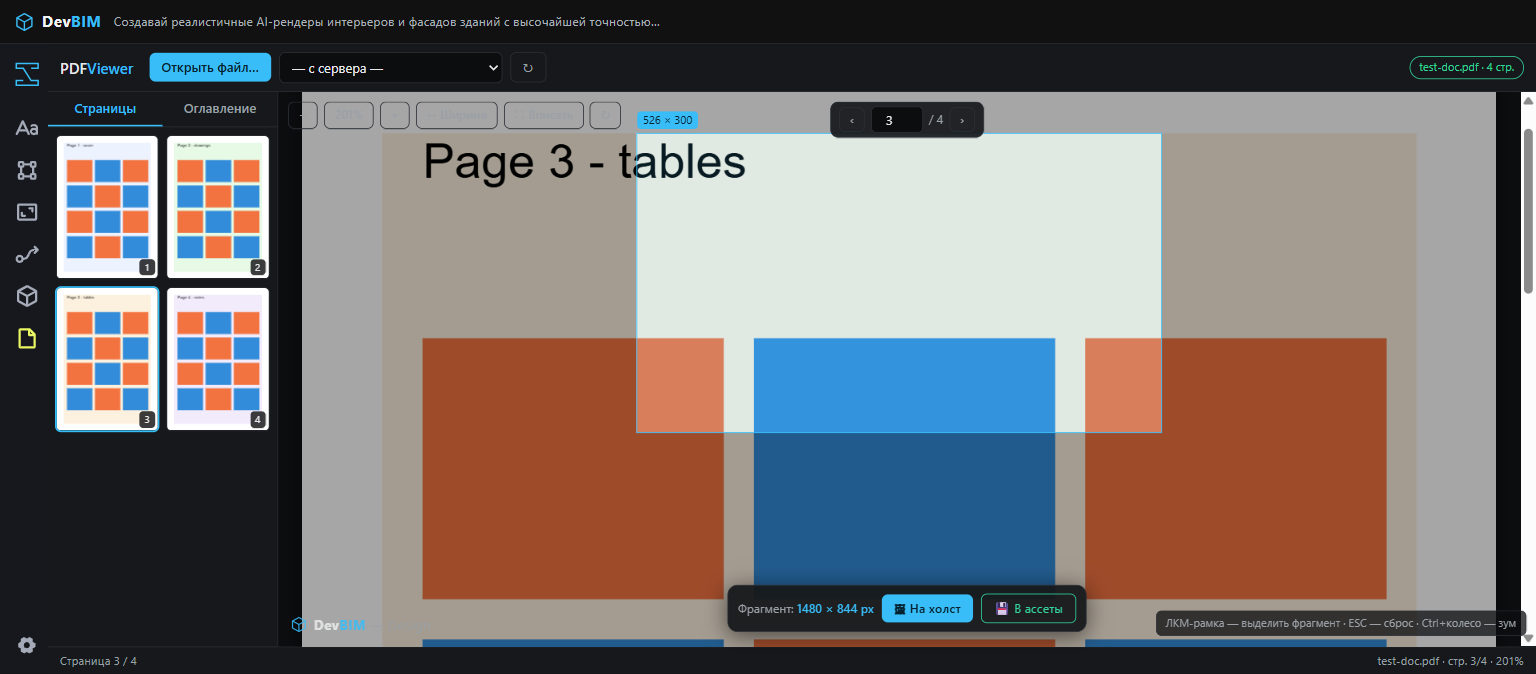
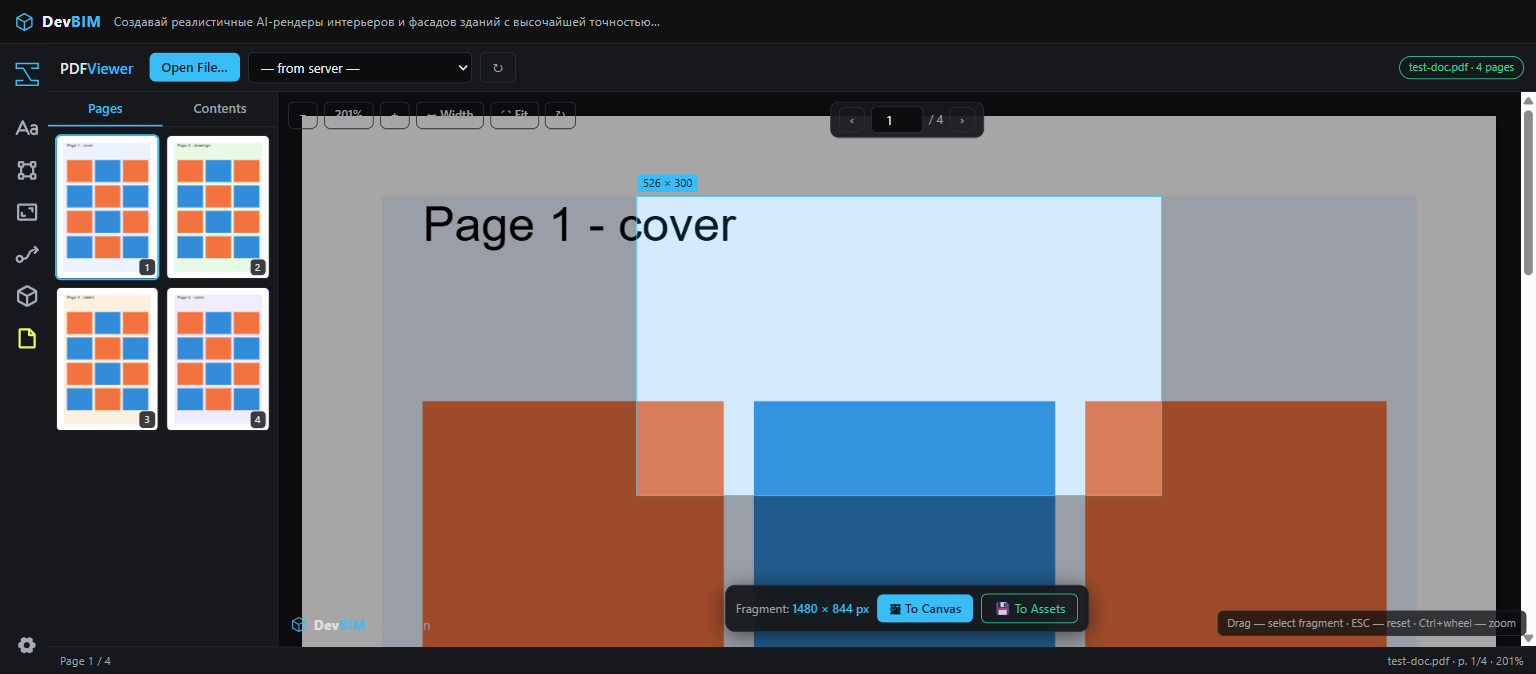
feat(pdf): английский интерфейс вьювера (базовый язык; RU-локализация отдельно)
Все пользовательские строки pdfviewer.html переведены на английский:
Open File…, ⬆ Upload, Pages/Contents, ↔ Width, ⚏ Fit,
🖼 To Canvas, 💾 To Assets, статусы/промпты/подсказки, МБ->MB;
lang=en, title 'PDF Viewer — DevBIM'. Комментарии кода — по-русски.
Скриншот docs/pdfviewer-selection.png обновлён; README/HANDOFF/спека —
новые названия кнопок. Проверено вживую (Playwright): все надписи EN,
To Assets сохраняет фрагмент, статус 'Page 1 fragment saved…'.

diff --git a/pdf/pdfviewer.html b/pdf/pdfviewer.html
@@ -1,9 +1,9 @@
 <!DOCTYPE html>
-<html lang="ru">
+<html lang="en">
 <head>
 <meta charset="utf-8">
 <meta name="viewport" content="width=device-width, initial-scale=1">
-<title>PDF-вьювер — DevBIM</title>
+<title>PDF Viewer — DevBIM</title>
 <style>
   :root{
     --bg:#0c0d0f; --panel:#16181b; --panel2:#1d2024; --border:#2b2f35;
@@ -167,22 +167,22 @@
 <body>
 <header>
   <h1>PDF<span class="bim">Viewer</span></h1>
-  <button id="open-file">Открыть файл…</button>
+  <button id="open-file">Open File…</button>
   <input type="file" id="file-input" accept=".pdf,application/pdf">
-  <button id="upload-server" class="ghost" title="Сохранить текущий документ на сервер" style="display:none">⬆ На сервер</button>
-  <select id="server-list" title="Документы на сервере"><option value="">— с сервера —</option></select>
-  <button id="refresh-list" class="ghost" title="Обновить список документов на сервере">↻</button>
+  <button id="upload-server" class="ghost" title="Save the current document to the server" style="display:none">⬆ Upload</button>
+  <select id="server-list" title="Documents on the server"><option value="">— from server —</option></select>
+  <button id="refresh-list" class="ghost" title="Refresh the server document list">↻</button>
   <span class="spacer"></span>
-  <span class="chip" id="stat-doc">документ не загружен</span>
+  <span class="chip" id="stat-doc">no document loaded</span>
 </header>
 
 <main>
   <section class="side">
     <div class="side-tabs">
-      <button id="tab-thumbs" class="active">Страницы</button>
-      <button id="tab-outline">Оглавление</button>
+      <button id="tab-thumbs" class="active">Pages</button>
+      <button id="tab-outline">Contents</button>
     </div>
-    <div id="thumbs"><div class="placeholder" style="color:var(--muted);font-size:12px;padding:8px 2px">Загрузите документ…</div></div>
+    <div id="thumbs"><div class="placeholder" style="color:var(--muted);font-size:12px;padding:8px 2px">Load a document…</div></div>
     <div id="outline"></div>
   </section>
 
@@ -190,8 +190,8 @@
     <div id="loadbar"><i></i></div>
     <div class="empty" id="empty">
       <div class="big">📄</div>
-      <div>Откройте PDF-файл с диска или выберите документ с сервера.<br>
-      Выделите фрагмент рамкой — и отправьте его на холст или в ассеты.</div>
+      <div>Open a PDF file from disk or pick a document from the server.<br>
+      Drag a frame to select a fragment, then send it to the canvas or assets.</div>
     </div>
     <div id="scroller" style="display:none">
       <div id="page-wrap">
@@ -200,25 +200,25 @@
       </div>
     </div>
     <div id="toolbar" style="display:none">
-      <button id="btn-zoom-out" class="ghost" title="Уменьшить">−</button>
-      <button id="btn-zoom-label" class="ghost" title="Масштаб 100%">100%</button>
-      <button id="btn-zoom-in" class="ghost" title="Увеличить">+</button>
-      <button id="btn-fit-width" class="ghost" title="Вписать по ширине">↔ Ширина</button>
-      <button id="btn-fit-page" class="ghost" title="Вписать страницу целиком">⛶ Вписать</button>
-      <button id="btn-rotate" class="ghost" title="Повернуть на 90°">↻</button>
+      <button id="btn-zoom-out" class="ghost" title="Zoom out">−</button>
+      <button id="btn-zoom-label" class="ghost" title="Zoom 100%">100%</button>
+      <button id="btn-zoom-in" class="ghost" title="Zoom in">+</button>
+      <button id="btn-fit-width" class="ghost" title="Fit width">↔ Width</button>
+      <button id="btn-fit-page" class="ghost" title="Fit the whole page">⛶ Fit</button>
+      <button id="btn-rotate" class="ghost" title="Rotate 90°">↻</button>
     </div>
     <div id="pagenav" style="display:none">
-      <button id="btn-prev" class="ghost" title="Предыдущая страница">‹</button>
+      <button id="btn-prev" class="ghost" title="Previous page">‹</button>
       <input id="page-input" type="number" min="1" value="1">
       <span class="total" id="page-total">/ 1</span>
-      <button id="btn-next" class="ghost" title="Следующая страница">›</button>
+      <button id="btn-next" class="ghost" title="Next page">›</button>
     </div>
     <div id="actionbar">
-      <span class="info">Фрагмент: <span class="out" id="sel-out">—</span></span>
-      <button id="btn-to-canvas" title="Положить фрагмент на холст подложкой (со слоем маски перерисовки)">🖼 На холст</button>
-      <button id="btn-save-assets" class="ghost" style="color:var(--ok);border-color:var(--ok)" title="Сохранить фрагмент в галерею (ассеты)">💾 В ассеты</button>
+      <span class="info">Fragment: <span class="out" id="sel-out">—</span></span>
+      <button id="btn-to-canvas" title="Place the fragment on the canvas as a base layer (with an inpaint mask layer)">🖼 To Canvas</button>
+      <button id="btn-save-assets" class="ghost" style="color:var(--ok);border-color:var(--ok)" title="Save the fragment to the gallery (Assets tab)">💾 To Assets</button>
     </div>
-    <div id="navhelp">ЛКМ-рамка — выделить фрагмент · ESC — сброс · Ctrl+колесо — зум</div>
+    <div id="navhelp">Drag — select fragment · ESC — reset · Ctrl+wheel — zoom</div>
     <div class="devbim-logo">
       <svg width="17" height="17" viewBox="0 0 24 24" fill="none" aria-hidden="true">
         <path d="M12 2 21 7v10l-9 5-9-5V7l9-5z" stroke="#38BDF8" stroke-width="1.7" stroke-linejoin="round"/>
@@ -230,7 +230,7 @@
 </main>
 
 <footer>
-  <span id="status">Готов</span>
+  <span id="status">Ready</span>
   <span class="spacer"></span>
   <span id="info"></span>
 </footer>
@@ -263,9 +263,9 @@ function escapeHtml(s) {
   return String(s).replace(/[&<>"]/g, (c) => ({ "&": "&amp;", "<": "&lt;", ">": "&gt;", '"': "&quot;" }[c]));
 }
 function fmtSize(b) {
-  if (b > 1024 * 1024) return (b / 1024 / 1024).toFixed(1) + " МБ";
-  if (b > 1024) return (b / 1024).toFixed(0) + " КБ";
-  return b + " Б";
+  if (b > 1024 * 1024) return (b / 1024 / 1024).toFixed(1) + " MB";
+  if (b > 1024) return (b / 1024).toFixed(0) + " KB";
+  return b + " B";
 }
 const sleep = (ms) => new Promise((r) => setTimeout(r, ms));
 
@@ -289,15 +289,15 @@ const io = "IntersectionObserver" in window ? new IntersectionObserver(onThumbVi
 // ============================== загрузка документа ==============================
 async function openPdf(data, name, { server = false, file = null } = {}) {
   closeDoc(false);
-  setStatus("Открытие " + name + "…");
+  setStatus("Opening " + name + "…");
   setProgress(0.15);
   const task = pdfjsLib.getDocument({ data, isEvalSupported: false });
   let pwTries = 0;
   task.onPassword = (updatePw, reason) => {
     const wrong = reason === pdfjsLib.PasswordResponses.INCORRECT_PASSWORD;
-    if (wrong && ++pwTries >= 3) throw new Error("Неверный пароль документа");
-    const pw = prompt(wrong ? "Неверный пароль. Пароль PDF-документа:" : "Документ защищён паролем. Введите пароль:");
-    if (pw === null) throw new Error("Документ защищён паролем");
+    if (wrong && ++pwTries >= 3) throw new Error("Wrong document password");
+    const pw = prompt(wrong ? "Wrong password. PDF document password:" : "The document is password-protected. Enter the password:");
+    if (pw === null) throw new Error("Document is password-protected");
     updatePw(pw);
   };
   try {
@@ -305,7 +305,7 @@ async function openPdf(data, name, { server = false, file = null } = {}) {
   } catch (e) {
     console.error(e);
     setProgress(null);
-    setStatus("Не удалось открыть PDF: " + (e?.message || e), true);
+    setStatus("Failed to open PDF: " + (e?.message || e), true);
     return false;
   }
   docName = name;
@@ -322,7 +322,7 @@ async function openPdf(data, name, { server = false, file = null } = {}) {
   $("pagenav").style.display = "flex";
   $("upload-server").style.display = server || !file ? "none" : "";
   const chip = $("stat-doc");
-  chip.textContent = `${name} · ${pdf.numPages} стр.`;
+  chip.textContent = `${name} · ${pdf.numPages} pages`;
   chip.className = "chip ok";
   $("page-total").textContent = "/ " + pdf.numPages;
   setProgress(0.55);
@@ -331,7 +331,7 @@ async function openPdf(data, name, { server = false, file = null } = {}) {
   if (server) { try { localStorage.setItem(LAST_DOC_KEY, name); } catch {} }
   await renderCurrentPage();
   setProgress(null);
-  setStatus(`Документ открыт: ${name}, страниц: ${pdf.numPages}`);
+  setStatus(`Document opened: ${name}, pages: ${pdf.numPages}`);
   return true;
 }
 
@@ -343,7 +343,7 @@ function closeDoc(keepList) {
   selection = null; thumbCache.clear(); outlineItems = [];
   io?.disconnect?.();
   if (!keepList) {
-    $("thumbs").innerHTML = '<div style="color:var(--muted);font-size:12px;padding:8px 2px">Загрузите документ…</div>';
+    $("thumbs").innerHTML = '<div style="color:var(--muted);font-size:12px;padding:8px 2px">Load a document…</div>';
     $("outline").innerHTML = "";
     $("tab-outline").style.display = "";
     switchSide("thumbs");
@@ -351,7 +351,7 @@ function closeDoc(keepList) {
 }
 
 async function loadServerDoc(name, { page = 1 } = {}) {
-  setStatus("Загрузка " + name + " с сервера…");
+  setStatus("Loading " + name + " from server…");
   const r = await fetch("/api/v1/pdf/file/" + encodeURIComponent(name));
   if (!r.ok) throw new Error("HTTP " + r.status);
   const buf = await r.arrayBuffer();
@@ -391,7 +391,7 @@ async function renderCurrentPage({ keepScroll = false } = {}) {
   const ctx = canvas.getContext("2d");
   ctx.fillStyle = "#ffffff";
   ctx.fillRect(0, 0, canvas.width, canvas.height);
-  setStatus(`Страница ${pageNum} / ${pdf.numPages}…`);
+  setStatus(`Page ${pageNum} / ${pdf.numPages}…`);
   renderTask = page.render({
     canvasContext: ctx,
     viewport: vp,
@@ -412,8 +412,8 @@ async function renderCurrentPage({ keepScroll = false } = {}) {
   $("btn-zoom-label").textContent = Math.round(scale * 100) + "%";
   $("page-input").value = pageNum;
   markCurrentThumb();
-  $("info").textContent = `${docName ?? ""} · стр. ${pageNum}/${pdf.numPages} · ${Math.round(scale * 100)}%`;
-  setStatus(`Страница ${pageNum} / ${pdf.numPages}`);
+  $("info").textContent = `${docName ?? ""} · p. ${pageNum}/${pdf.numPages} · ${Math.round(scale * 100)}%`;
+  setStatus(`Page ${pageNum} / ${pdf.numPages}`);
   try { localStorage.setItem(LAST_PAGE_KEY, String(pageNum)); } catch {}
 }
 
@@ -421,7 +421,7 @@ let zoomTimer = null;
 function scheduleRender(opts = {}) {
   clearTimeout(zoomTimer);
   zoomTimer = setTimeout(() => renderCurrentPage(opts).catch((e) => {
-    console.error(e); setStatus("Ошибка рендера: " + (e?.message || e), true);
+    console.error(e); setStatus("Render error: " + (e?.message || e), true);
   }), 120);
 }
 
@@ -434,7 +434,7 @@ async function gotoPage(n) {
   markCurrentThumb();
   const t = thumbFor(n); // прокрутить миниатюру к виду
   t?.scrollIntoView({ block: "nearest" });
-  await renderCurrentPage().catch((e) => { setStatus("Ошибка рендера: " + (e?.message || e), true); });
+  await renderCurrentPage().catch((e) => { setStatus("Render error: " + (e?.message || e), true); });
 }
 
 // зум: factor вокруг точки (clientX, clientY) либо центра вьюпорта
@@ -480,7 +480,7 @@ function buildThumbs() {
     t.className = "thumb" + (n === pageNum ? " cur" : "");
     t.dataset.page = n;
     t.innerHTML = `<div class="ph">…</div><span class="num">${n}</span>`;
-    t.title = "Страница " + n;
+    t.title = "Page " + n;
     t.addEventListener("click", () => gotoPage(n));
     grid.appendChild(t);
     io?.observe(t);
@@ -725,25 +725,25 @@ async function uploadImage(blob, name, category = "general") {
 }
 
 async function sendFragment({ toCanvas = false } = {}) {
-  if (!selection || !pdf) { setStatus("Сначала выделите фрагмент рамкой", true); return; }
+  if (!selection || !pdf) { setStatus("Select a fragment first (drag a frame)", true); return; }
   const btn = toCanvas ? $("btn-to-canvas") : $("btn-save-assets");
   btn.disabled = true;
   try {
-    setStatus("Готовка фрагмента…");
+    setStatus("Preparing fragment…");
     const { blob, name } = await cropSelection();
     if (toCanvas) {
       const dto = await uploadImage(blob, name, "general");
       const api = window.parent && window.parent.__devbimIfc;
-      if (!api?.toCanvas) throw new Error("мост к холсту недоступен (перезагрузите страницу)");
+      if (!api?.toCanvas) throw new Error("canvas bridge unavailable (reload the page)");
       await api.toCanvas(dto, false);
-      setStatus(`Фрагмент стр. ${pageNum} передан на холст — кистью выделите «Маску перерисовки»`);
+      setStatus(`Page ${pageNum} fragment placed on canvas — brush an inpaint mask, then Generate`);
     } else {
       const dto = await uploadImage(blob, name, "user");
-      setStatus(`Фрагмент стр. ${pageNum} сохранён во вкладке «Assets» галереи (${name})`);
+      setStatus(`Page ${pageNum} fragment saved to the gallery "Assets" tab (${name})`);
     }
   } catch (e) {
     console.error(e);
-    setStatus("Ошибка: " + (e?.message || e), true);
+    setStatus("Error: " + (e?.message || e), true);
   } finally {
     btn.disabled = false;
   }
@@ -757,10 +757,10 @@ async function refreshServerList() {
     if (!r.ok) throw new Error("HTTP " + r.status);
     const d = await r.json();
     const docs = d.docs || [];
-    sel.innerHTML = '<option value="">— с сервера —</option>' +
+    sel.innerHTML = '<option value="">— from server —</option>' +
       docs.map((n) => `<option value="${escapeHtml(n.name)}">${escapeHtml(n.name)}${n.size ? " · " + fmtSize(n.size) : ""}</option>`).join("");
   } catch {
-    sel.innerHTML = '<option value="">— сервер: нет документов —</option>';
+    sel.innerHTML = '<option value="">— server: no documents —</option>';
   }
 }
 
@@ -769,7 +769,7 @@ async function uploadToServer() {
   const btn = $("upload-server");
   btn.disabled = true;
   try {
-    setStatus("Сохранение на сервер…");
+    setStatus("Uploading to server…");
     const fd = new FormData();
     fd.append("file", docFile, docName);
     const r = await fetch("/api/v1/pdf/upload", { method: "POST", body: fd });
@@ -779,9 +779,9 @@ async function uploadToServer() {
     $("upload-server").style.display = "none";
     try { localStorage.setItem(LAST_DOC_KEY, d.name || docName); } catch {}
     await refreshServerList();
-    setStatus("Сохранено на сервере: " + (d.name || docName));
+    setStatus("Saved to server: " + (d.name || docName));
   } catch (e) {
-    setStatus("Не удалось сохранить на сервер: " + (e?.message || e), true);
+    setStatus("Upload to server failed: " + (e?.message || e), true);
   } finally {
     btn.disabled = false;
   }
@@ -792,7 +792,7 @@ $("open-file").addEventListener("click", () => $("file-input").click());
 $("file-input").addEventListener("change", async (e) => {
   const f = e.target.files?.[0];
   if (!f) return;
-  if (!/\.pdf$/i.test(f.name)) { setStatus("Нужен файл .pdf", true); e.target.value = ""; return; }
+  if (!/\.pdf$/i.test(f.name)) { setStatus("A .pdf file is required", true); e.target.value = ""; return; }
   const buf = await f.arrayBuffer();
   await openPdf(new Uint8Array(buf), f.name, { file: f });
   e.target.value = "";
@@ -805,7 +805,7 @@ $("server-list").addEventListener("change", async (e) => {
   try {
     await loadServerDoc(name);
   } catch (err) {
-    setStatus("Не удалось загрузить: " + err.message, true);
+    setStatus("Failed to load: " + err.message, true);
   } finally {
     e.target.value = "";
   }
@@ -840,7 +840,7 @@ $("scroller").addEventListener("wheel", (e) => {
   if (!e.ctrlKey || !pdf) return;
   e.preventDefault();
   zoomAt(e.deltaY < 0 ? 1.15 : 1 / 1.15, e.clientX, e.clientY)
-    .catch((err) => setStatus("Ошибка зума: " + err.message, true));
+    .catch((err) => setStatus("Zoom error: " + err.message, true));
 }, { passive: false });
 
 window.addEventListener("keydown", (e) => {

diff --git a/docs/superpowers/specs/2026-09-05-pdf-viewer-design.md b/docs/superpowers/specs/2026-09-05-pdf-viewer-design.md
@@ -57,15 +57,16 @@
 
 ## UI вьювера
 
-- **Header**: логотип «PDF**Viewer**», «Открыть файл…» (диск),
-  «⬆ На сервер» (загрузить текущий документ на сервер; скрыт, если документ
-  уже с сервера), select «— с сервера —» + ↻, chip-статус (имя · N стр.).
-- **Сайдбар слева** с двумя секциями: «Страницы» — сетка миниатюр
+- **Header**: логотип «PDF**Viewer**», «Open File…» (диск),
+  «⬆ Upload» (загрузить текущий документ на сервер; скрыт, если документ
+  уже с сервера), select «— from server —» + ↻, chip-статус (имя · N pages).
+  Интерфейс на английском (базовый язык; RU-локализация отдельно).
+- **Сайдбар слева** с двумя секциями: «Pages» — сетка миниатюр
   (ленивый рендер через IntersectionObserver, ширина ~110px, клик —
-  переход, текущая подсвечена) и «Оглавление» — дерево `getOutline()`
+  переход, текущая подсвечена) и «Contents» — дерево `getOutline()`
   (скрыто, если в PDF нет оглавления).
 - **Вьюпорт**: страница по центру на тёмном фоне; плавающий тулбар
-  слева сверху: зум −/+, «Вписать», «100%», поворот ↻; панель навигации:
+  слева сверху: зум −/+, «⛶ Fit», «100%», поворот ↻; панель навигации:
   «‹ [N] / M ›» (input + стрелки). Скролл — колесо/скроллбар,
   Ctrl+колесо — зум.
 - **Рамка**: drag ЛКМ по странице — прямоугольник (акцент, полупрозрачная
@@ -73,7 +74,7 @@
   Минимальный размер 8×8 CSS-px, иначе клик-сброс. ESC — сброс. Зум/
   поворот/смена страницы сбрасывают рамку.
 - **Action bar** (плавающая, внизу по центру, видна при наличии рамки):
-  размер фрагмента на выходе, «🖼 На холст», «💾 В ассеты». Кнопки
+  размер фрагмента на выходе, «🖼 To Canvas», «💾 To Assets». Кнопки
   блокируются на время операции, статус — в футере/тосте.
 - **Footer**: статус (страница, зум, имя файла, ошибки), как у IFC.
 - CSS-хук `body.embed` (?embed=1) сохранён на будущее.
@@ -87,9 +88,9 @@
 3. Кроп `(x·S, y·S, w·S, h·S)` → `canvas.toBlob('image/png')`.
 4. `POST /api/v1/images/upload?image_category=<general|user>&is_intermediate=false`
    (multipart, имя `pdf-p<N>.png`) → ImageDTO.
-5. «На холст»: `window.parent.__devbimIfc.toCanvas(dto, false)` (категория
-   `general`). «В ассеты»: категория `user`, тост «Сохранено во вкладке
-   „Assets“ галереи».
+5. «To Canvas»: `window.parent.__devbimIfc.toCanvas(dto, false)` (категория
+   `general`). «To Assets»: категория `user`, статус «saved to the gallery
+   "Assets" tab».
 
 ## Патчи бандлов (анкеры — строки ПОСЛЕ setup_ifcviewer.py)
 

diff --git a/HANDOFF.md b/HANDOFF.md
@@ -450,15 +450,17 @@ invokeai==6.2.0` их нужно запускать повторно в поря
     PageDown, зум −/+/Ctrl+колесо/100%, «Ширина»/«Вписать», поворот)
     → рамка фрагмента (ЛКМ-drag по странице, затемнение вне рамки
     box-shadow-трюком, ESC/клик — сброс, новая заменяет прежнюю) →
-    «🖼 На холст» / «💾 В ассеты». Рендер PDF.js 5.4.149, ассеты
+    «🖼 To Canvas» / «💾 To Assets» (интерфейс на АНГЛИЙСКОМ — базовый
+    язык, русская локализация отдельно; изначально был русский,
+    переведён 05.09 по решению пользователя). Рендер PDF.js 5.4.149, ассеты
     `pdf/assets/` → `dist/pdf/` (mjs отдаётся как application/javascript
     на этой машине — воркер работает; проверять после переноса).
     Кроп: offscreen-рендер страницы под целевую длинную сторону фрагмента
     2048 px (лимит полной страницы 16 Мп, абсолютный cap масштаба ×12,
     белый фон) → PNG → `POST /api/v1/images/upload`.
-    «На холст» = мост `__devbimIfc.toCanvas(dto,false)` (категория
+    «To Canvas» = мост `__devbimIfc.toCanvas(dto,false)` (категория
     general, поведение «Редактировать»: подложка + слой «Маска
-    перерисовки» + кисть). «В ассеты» = `image_category=user`: вкладка
+    перерисовки» + кисть). «To Assets» = `image_category=user`: вкладка
     «Assets» галереи фильтрует categories=control|mask|user|other,
     а general попал бы в «Изображения» (грабля найдена снапшотом сети).
     ГРАБЛЯ (главная): `window.__devbimIfcCtx` выставляет только панель
